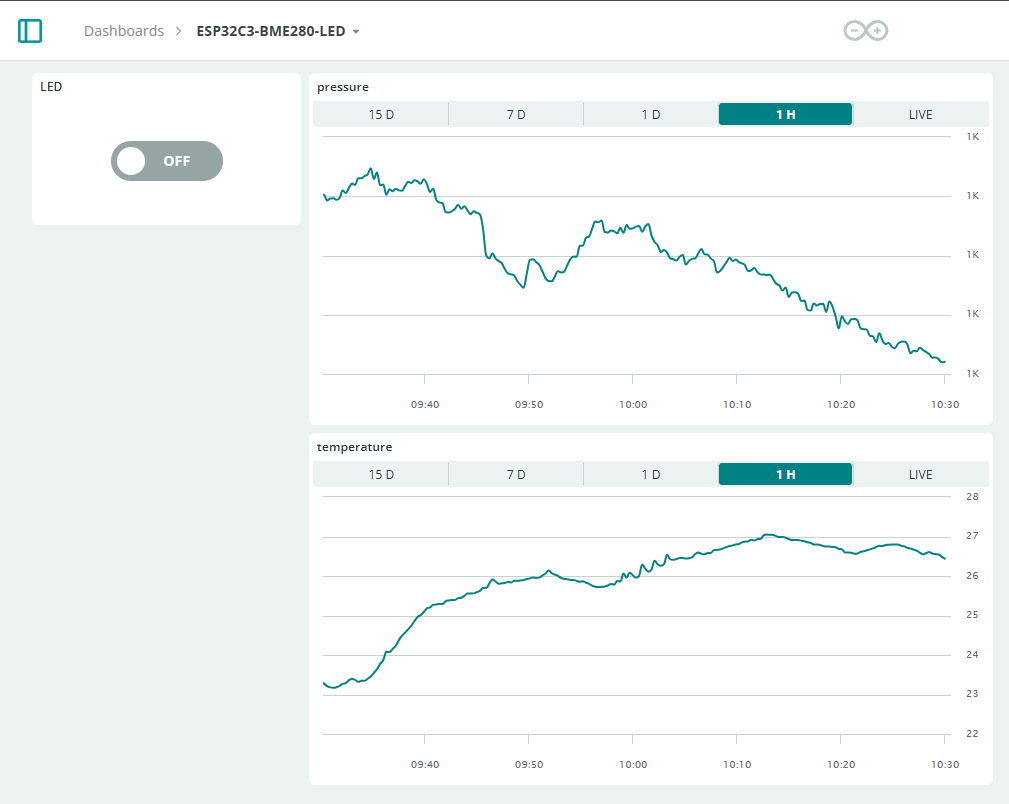
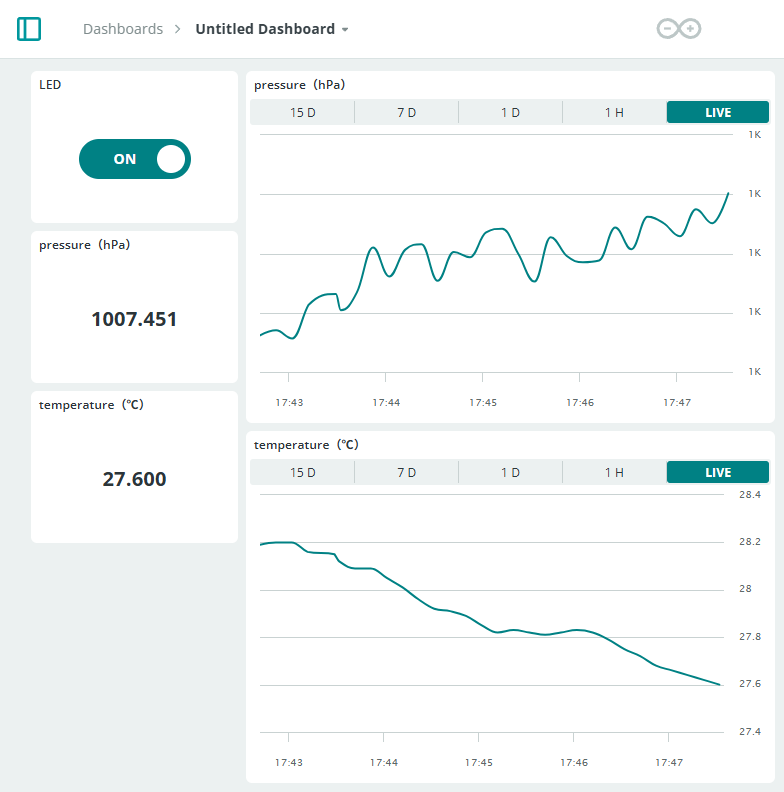
キャプチャ画像の差替

diff --git a/content/post/otafab-esp32-arduino-cloud-blink/index.md b/content/post/otafab-esp32-arduino-cloud-blink/index.md
@@ -388,7 +388,7 @@ void loop() {
   unsigned long currentMillis = millis();
 
   // 1000ミリ秒（1秒）経過したかチェック
-  if (currentMillis - lastUpdate >= 1000) {
+  if (currentMillis - lastUpdate >= delayTime) {
     lastUpdate = currentMillis;
     
     // 1秒ごとの処理
